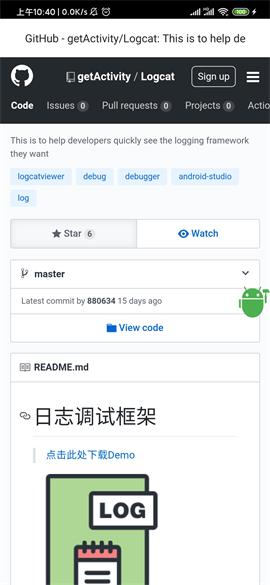
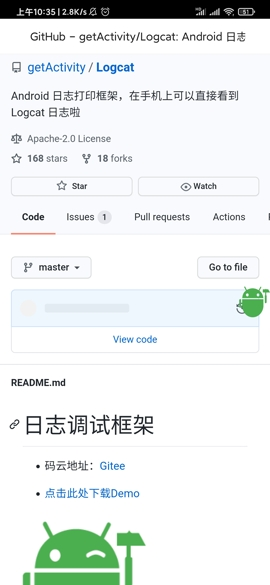
迁移 JCenter 到 JitPack 优化框架代码及补充一个字符串国际化

diff --git a/library/src/main/java/com/hjq/logcat/ChooseWindow.java b/library/src/main/java/com/hjq/logcat/ChooseWindow.java
@@ -7,7 +7,6 @@ import android.view.WindowManager;
 import android.widget.AdapterView;
 import android.widget.ListView;
 
-import com.hjq.xtoast.OnClickListener;
 import com.hjq.xtoast.XToast;
 
 import java.util.ArrayList;
@@ -20,7 +19,7 @@ import java.util.List;
  *    time   : 2020/01/24
  *    desc   : 列表选择类
  */
-final class ChooseWindow extends XToast implements AdapterView.OnItemClickListener, OnClickListener<View> {
+final class ChooseWindow extends XToast<ChooseWindow> implements AdapterView.OnItemClickListener, XToast.OnClickListener<View> {
 
     private final ChooseAdapter mAdapter;
     private OnListener mListener;

diff --git a/library/src/main/java/com/hjq/logcat/FloatingWindow.java b/library/src/main/java/com/hjq/logcat/FloatingWindow.java
@@ -7,7 +7,6 @@ import android.view.Gravity;
 import android.view.View;
 import android.widget.ImageView;
 
-import com.hjq.xtoast.OnClickListener;
 import com.hjq.xtoast.XToast;
 import com.hjq.xtoast.draggable.SpringDraggable;
 
@@ -17,7 +16,7 @@ import com.hjq.xtoast.draggable.SpringDraggable;
  *    time   : 2020/01/24
  *    desc   : 悬浮窗口
  */
-final class FloatingWindow extends XToast<FloatingWindow> implements OnClickListener<View> {
+final class FloatingWindow extends XToast<FloatingWindow> implements XToast.OnClickListener<View> {
 
     FloatingWindow(Activity activity) {
         super(activity);

diff --git a/library/src/main/java/com/hjq/logcat/InitProvider.java b/library/src/main/java/com/hjq/logcat/InitProvider.java
@@ -24,7 +24,7 @@ public final class InitProvider extends ContentProvider {
             if (context instanceof Application) {
                 FloatingLifecycle.with((Application) context);
             } else {
-                Toast.makeText(context, "参数错误，无法启动 Logcat", Toast.LENGTH_LONG).show();
+                Toast.makeText(context, R.string.logcat_launch_error, Toast.LENGTH_LONG).show();
             }
         }
         return true;

diff --git a/README.md b/README.md
@@ -9,9 +9,23 @@
 #### 集成步骤
 
 ```groovy
+buildscript {
+    ......
+}
+allprojects {
+    repositories {
+        // JitPack 远程仓库：https://jitpack.io
+        maven { url 'https://jitpack.io' }
+    }
+}
+```
+
+* 在项目 app 模块下的 `build.gradle` 文件中加入
+
+```groovy
 dependencies {
     // 日志调试框架：https://github.com/getActivity/Logcat
-    debugImplementation 'com.hjq:logcat:9.5'
+    debugImplementation 'com.github.getActivity:Logcat:9.6'
 }
 ```
 
@@ -88,11 +102,11 @@ dependencies {
 
 * Gson 解析容错：[GsonFactory](https://github.com/getActivity/GsonFactory)
 
-#### Android技术讨论Q群：78797078
-
 #### 微信公众号：Android轮子哥
 
 ![](https://raw.githubusercontent.com/getActivity/Donate/master/picture/official_ccount.png)
+
+#### Android 技术分享 QQ 群：78797078
 
 #### 如果您觉得我的开源库帮你节省了大量的开发时间，请扫描下方的二维码随意打赏，要是能打赏个 10.24 :monkey_face:就太:thumbsup:了。您的支持将鼓励我继续创作:octocat:
 
